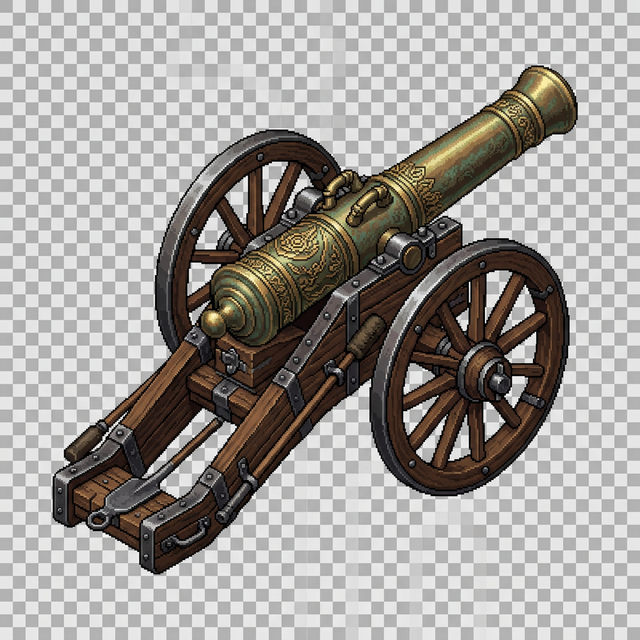
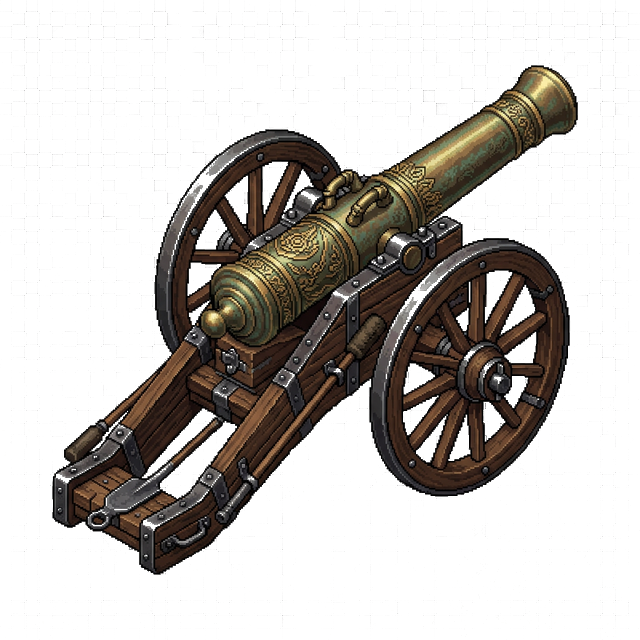
ระบบทุ่นระเบิด (Naval Mines): เพิ่มปุ่มสั่งซื้อ "วางทุ่นระเบิด" (50 Gold) ลงไปที่หน้า UI มุมขวาล่าง ผู้เล่นสามารถคลิกแล้วนำไปวางบนแม่น้ำได้ ทุ่นจะระเบิดและสร้างความเสียหายหมู่ (AoE) ใส่กองเรือฝรั่งเศสที่แล่นผ่าน ระบบหลบดาเมจของปืนเสือหมอบ (Disappearing Guns): อัปเดตให้มีสถานะ "ซ่อนตัว" เมื่อปืนกำลัง

diff --git a/html5-game/js/campaign3/NavalCombat.js b/html5-game/js/campaign3/NavalCombat.js
@@ -164,6 +164,34 @@ class NavalCombat {
     }
 
     /**
+     * Create Naval Mine
+     */
+    createNavalMine(config) {
+        return {
+            id: `mine_${Date.now()}_${Math.random()}`,
+            team: 0,
+            type: "NavalMine",
+            x: config.x || 0,
+            y: config.y || 0,
+            width: 15,
+            height: 15,
+            hp: 20, // Low HP, can be destroyed easily
+            maxHp: 20,
+            armor: 0,
+            attack: config.attack || 400, // Massive damage
+            range: 25, // Detonation radius
+            speed: 0, // Stationary
+            angle: 0,
+
+            state: "active", // active, exploding, destroyed
+            target: null,
+            lastFireTime: 0,
+
+            spriteKey: "mine" // We'll add a fallback render for this
+        };
+    }
+
+    /**
      * Create a French attacking ship
      */
     createFrenchShip(config) {
@@ -269,8 +297,82 @@ class NavalCombat {
         // 3. Simple auto-attack for player ships if not manually controlled
         this.updatePlayerShipAutoAttacks(playerShips, enemyShips);
 
-        // 4. Update effects
+        // 4. Update Naval Mines
+        this.updateNavalMines(playerShips, enemyShips);
+
+        // 5. Update effects
         this.updateEffects(deltaTime);
+    }
+
+    /**
+     * Handle Naval Mines proximity detonation
+     */
+    updateNavalMines(playerShips, enemyShips) {
+        // Find all player-owned Naval Mines
+        const mines = playerShips.filter(s => s.type === "NavalMine" && s.state === "active");
+
+        mines.forEach(mine => {
+            // Check distance to enemy ships
+            let triggered = false;
+            for (const ship of enemyShips) {
+                if (ship.hp <= 0 || ship.state === "sinking") continue;
+
+                const dist = Math.hypot(ship.x - mine.x, ship.y - mine.y);
+                if (dist <= mine.range) {
+                    // Boom!
+                    this.detonateMine(mine, enemyShips);
+                    triggered = true;
+                    break;
+                }
+            }
+
+            if (!triggered && mine.hp <= 0) {
+                // Mine was destroyed by enemy fire
+                this.detonateMine(mine, enemyShips, true);
+            }
+        });
+    }
+
+    detonateMine(mine, enemyShips, premature = false) {
+        mine.state = "destroyed"; // Remove from active play easily
+
+        // Create massive explosion effect
+        this.createEffect({
+            type: "explosion",
+            x: mine.x,
+            y: mine.y,
+            duration: 800,
+            scale: 2.5
+        });
+
+        this.createEffect({
+            type: "splash",
+            x: mine.x,
+            y: mine.y,
+            duration: 1000,
+            scale: 2.0
+        });
+
+        if (this.game.soundManager) {
+            this.game.soundManager.play("explosion_huge");
+        }
+
+        // Deal AoE damage
+        const damageRadius = premature ? mine.range * 1.5 : mine.range * 2.5;
+        const damage = premature ? mine.attack * 0.5 : mine.attack; // Half damage if shot before trigger
+
+        enemyShips.forEach(ship => {
+            if (ship.hp <= 0 || ship.state === "sinking") return;
+            const dist = Math.hypot(ship.x - mine.x, ship.y - mine.y);
+            if (dist <= damageRadius) {
+                // Damage dropoff based on distance
+                const damagePercent = 1 - (dist / damageRadius);
+                const finalDamage = Math.max(1, damage * damagePercent);
+
+                // Pretend it was hit by a projectile for simplicity of reusing handleHit
+                this.handleHit(ship, { damage: finalDamage, x: ship.x, y: ship.y, scale: 1.5 });
+            }
+        });
     }
 
     /**
@@ -399,25 +501,50 @@ class NavalCombat {
             }
 
             // If enemy projectile, also check fort collision
-            if (!hit && proj.team === 1 && this.game.campaign3 && this.game.campaign3.fort) {
-                const fort = this.game.campaign3.fort;
-                if (fort.hp > 0 &&
-                    proj.x > fort.hitbox.x && proj.x < fort.hitbox.x + fort.hitbox.width &&
-                    proj.y > fort.hitbox.y && proj.y < fort.hitbox.y + fort.hitbox.height) {
+            if (!hit && proj.team === 1 && this.game.campaign3 && this.game.campaign3.fortDefense) {
+                const fortDef = this.game.campaign3.fortDefense;
 
-                    // Hit Fort
-                    this.createEffect({
-                        type: "explosion",
-                        x: proj.x,
-                        y: proj.y,
-                        duration: 300,
-                        scale: proj.scale * 1.5
-                    });
+                // 1. Check Gun Batteries first
+                if (fortDef.gunBatteries) {
+                    for (const battery of fortDef.gunBatteries) {
+                        if (battery.hp <= 0 || battery.state === "destroyed") continue;
 
-                    if (this.game.campaign3.fortDefense) {
-                        this.game.campaign3.fortDefense.takeDamage(proj.damage);
+                        if (Math.abs(proj.x - battery.x) < battery.width / 2 &&
+                            Math.abs(proj.y - battery.y) < battery.height / 2) {
+
+                            this.createEffect({
+                                type: "explosion",
+                                x: proj.x,
+                                y: proj.y,
+                                duration: 300,
+                                scale: proj.scale * 1.5
+                            });
+
+                            fortDef.damageBattery(battery.id, proj.damage);
+                            hit = true;
+                            break;
+                        }
                     }
-                    hit = true;
+                }
+
+                // 2. Check main fort if no battery was hit
+                if (!hit && fortDef.fort && fortDef.fort.hp > 0) {
+                    const fort = fortDef.fort;
+                    if (proj.x > fort.hitbox.x && proj.x < fort.hitbox.x + fort.hitbox.width &&
+                        proj.y > fort.hitbox.y && proj.y < fort.hitbox.y + fort.hitbox.height) {
+
+                        // Hit Fort
+                        this.createEffect({
+                            type: "explosion",
+                            x: proj.x,
+                            y: proj.y,
+                            duration: 300,
+                            scale: proj.scale * 1.5
+                        });
+
+                        fortDef.takeDamage(proj.damage);
+                        hit = true;
+                    }
                 }
             }
 
@@ -624,6 +751,32 @@ class NavalCombat {
             ctx.beginPath();
             ctx.arc(0, 0, ship.width / 2, 0, Math.PI * 2);
             ctx.fill();
+        } else if (ship.type === "NavalMine") {
+            // Draw a spiky circle for a mine
+            ctx.fillStyle = "#4a4a4a"; // Dark iron color
+            ctx.beginPath();
+            ctx.arc(0, 0, ship.width / 2, 0, Math.PI * 2);
+            ctx.fill();
+
+            // Add spikes
+            ctx.strokeStyle = "#333";
+            ctx.lineWidth = 2;
+            for (let i = 0; i < 8; i++) {
+                const angle = (i / 8) * Math.PI * 2;
+                ctx.beginPath();
+                ctx.moveTo(Math.cos(angle) * (ship.width / 2 - 2), Math.sin(angle) * (ship.width / 2 - 2));
+                ctx.lineTo(Math.cos(angle) * (ship.width / 2 + 3), Math.sin(angle) * (ship.width / 2 + 3));
+                ctx.stroke();
+            }
+
+            // Render a blinking red light just for visual feedback if active
+            const now = Date.now();
+            if (ship.state === "active" && Math.floor(now / 500) % 2 === 0) {
+                ctx.fillStyle = "rgba(255, 0, 0, 0.8)";
+                ctx.beginPath();
+                ctx.arc(0, 0, 3, 0, Math.PI * 2);
+                ctx.fill();
+            }
         }
     }
 

diff --git a/html5-game/js/campaign3/Campaign3.js b/html5-game/js/campaign3/Campaign3.js
@@ -290,6 +290,64 @@ class Campaign3 {
         this.game.canvas.parentElement.appendChild(objectivesPanel);
 
         this.updateObjectivesDisplay();
+
+        // Create command bar for purchasing defenses
+        const commandBar = document.createElement('div');
+        commandBar.id = 'campaign3-commands';
+        commandBar.style.cssText = `
+            position: absolute;
+            bottom: 10px;
+            right: 10px;
+            background: rgba(0, 0, 0, 0.8);
+            padding: 10px;
+            border-radius: 5px;
+            display: flex;
+            gap: 10px;
+            z-index: 1000;
+        `;
+
+        commandBar.innerHTML = `
+            <button id="btn-buy-mine" style="
+                background: #444; border: 2px solid #555; color: white; padding: 10px;
+                border-radius: 5px; cursor: pointer; font-family: 'Kanit';
+            " title="ทอง: 50">
+                💣 วางทุ่นระเบิด (50 G)
+            </button>
+        `;
+        this.game.canvas.parentElement.appendChild(commandBar);
+
+        // Event listener for buying mine
+        document.getElementById('btn-buy-mine').addEventListener('click', () => {
+            // Activate placement mode
+            if (this.resources.gold >= 50) {
+                this.placementMode = "mine";
+                if (this.game.messageLog) this.game.addSystemMessage("เลือกพื้นที่วางทุ่นระเบิดในแม่น้ำ");
+
+                // Intercept next click on canvas
+                const placingHandler = (e) => {
+                    if (this.placementMode === "mine") {
+                        const rect = this.game.canvas.getBoundingClientRect();
+                        const x = e.clientX - rect.left;
+                        const y = e.clientY - rect.top;
+
+                        // Convert to world coords
+                        const worldX = (x / this.game.camera.zoom) + this.game.camera.x;
+                        const worldY = (y / this.game.camera.zoom) + this.game.camera.y;
+
+                        if (this.addNavalMine(worldX, worldY)) {
+                            this.placementMode = null;
+                            this.game.canvas.removeEventListener('mousedown', placingHandler);
+                        }
+                    }
+                };
+                // Remove any existing first to avoid duplicate calls
+                this.game.canvas.removeEventListener('mousedown', this.currentPlacingHandler);
+                this.currentPlacingHandler = placingHandler;
+                this.game.canvas.addEventListener('mousedown', placingHandler);
+            } else {
+                if (this.game.messageLog) this.game.addSystemMessage("ทองไม่เพียงพอ!");
+            }
+        });
     }
 
     /**
@@ -392,7 +450,7 @@ class Campaign3 {
             const minutes = Math.floor(remaining / 60);
             const seconds = Math.floor(remaining % 60);
             this.timerDisplay.textContent =
-            `⏱ ${minutes.toString().padStart(2, '0')}:${seconds.toString().padStart(2, '0')}`;
+                `⏱ ${minutes.toString().padStart(2, '0')}:${seconds.toString().padStart(2, '0')}`;
         }
     }
 
@@ -634,6 +692,25 @@ class Campaign3 {
             this.chainBarriers.push(barrier);
             this.resources.gold -= 100;
             this.updateResourceDisplay();
+            return true;
+        }
+        return false;
+    }
+
+    /**
+     * Add naval mine
+     */
+    addNavalMine(x, y) {
+        // Double check cost here just in case
+        if (this.resources.gold >= 50) {
+            const mine = this.navalCombat.createNavalMine({ x: x, y: y });
+            this.playerShips.push(mine);
+            this.resources.gold -= 50;
+            this.updateResourceDisplay();
+
+            if (this.game.messageLog) {
+                this.game.addSystemMessage("วางทุ่นระเบิดสำเร็จ");
+            }
             return true;
         }
         return false;

diff --git a/html5-game/js/campaign3/FortDefense.js b/html5-game/js/campaign3/FortDefense.js
@@ -639,6 +639,22 @@ class FortDefense {
         const battery = this.gunBatteries.find(b => b.id === batteryId);
         if (!battery || battery.hp <= 0) return;
 
+        // Disappearing Gun Mechanic:
+        // If the gun is reloading, it's hidden in the pit and takes heavily reduced damage (or no damage)
+        if (battery.state === "reloading") {
+            // 90% damage reduction when hiding in the pit
+            damage = damage * 0.1;
+
+            // Optional: Create a "ping" effect to show it hit the armor plating
+            this.createEffect({
+                type: "damageText",
+                x: battery.x,
+                y: battery.y - 10,
+                duration: 500,
+                text: "ซ่อนตัว!"
+            });
+        }
+
         battery.hp -= damage;
 
         if (battery.hp <= 0) {
